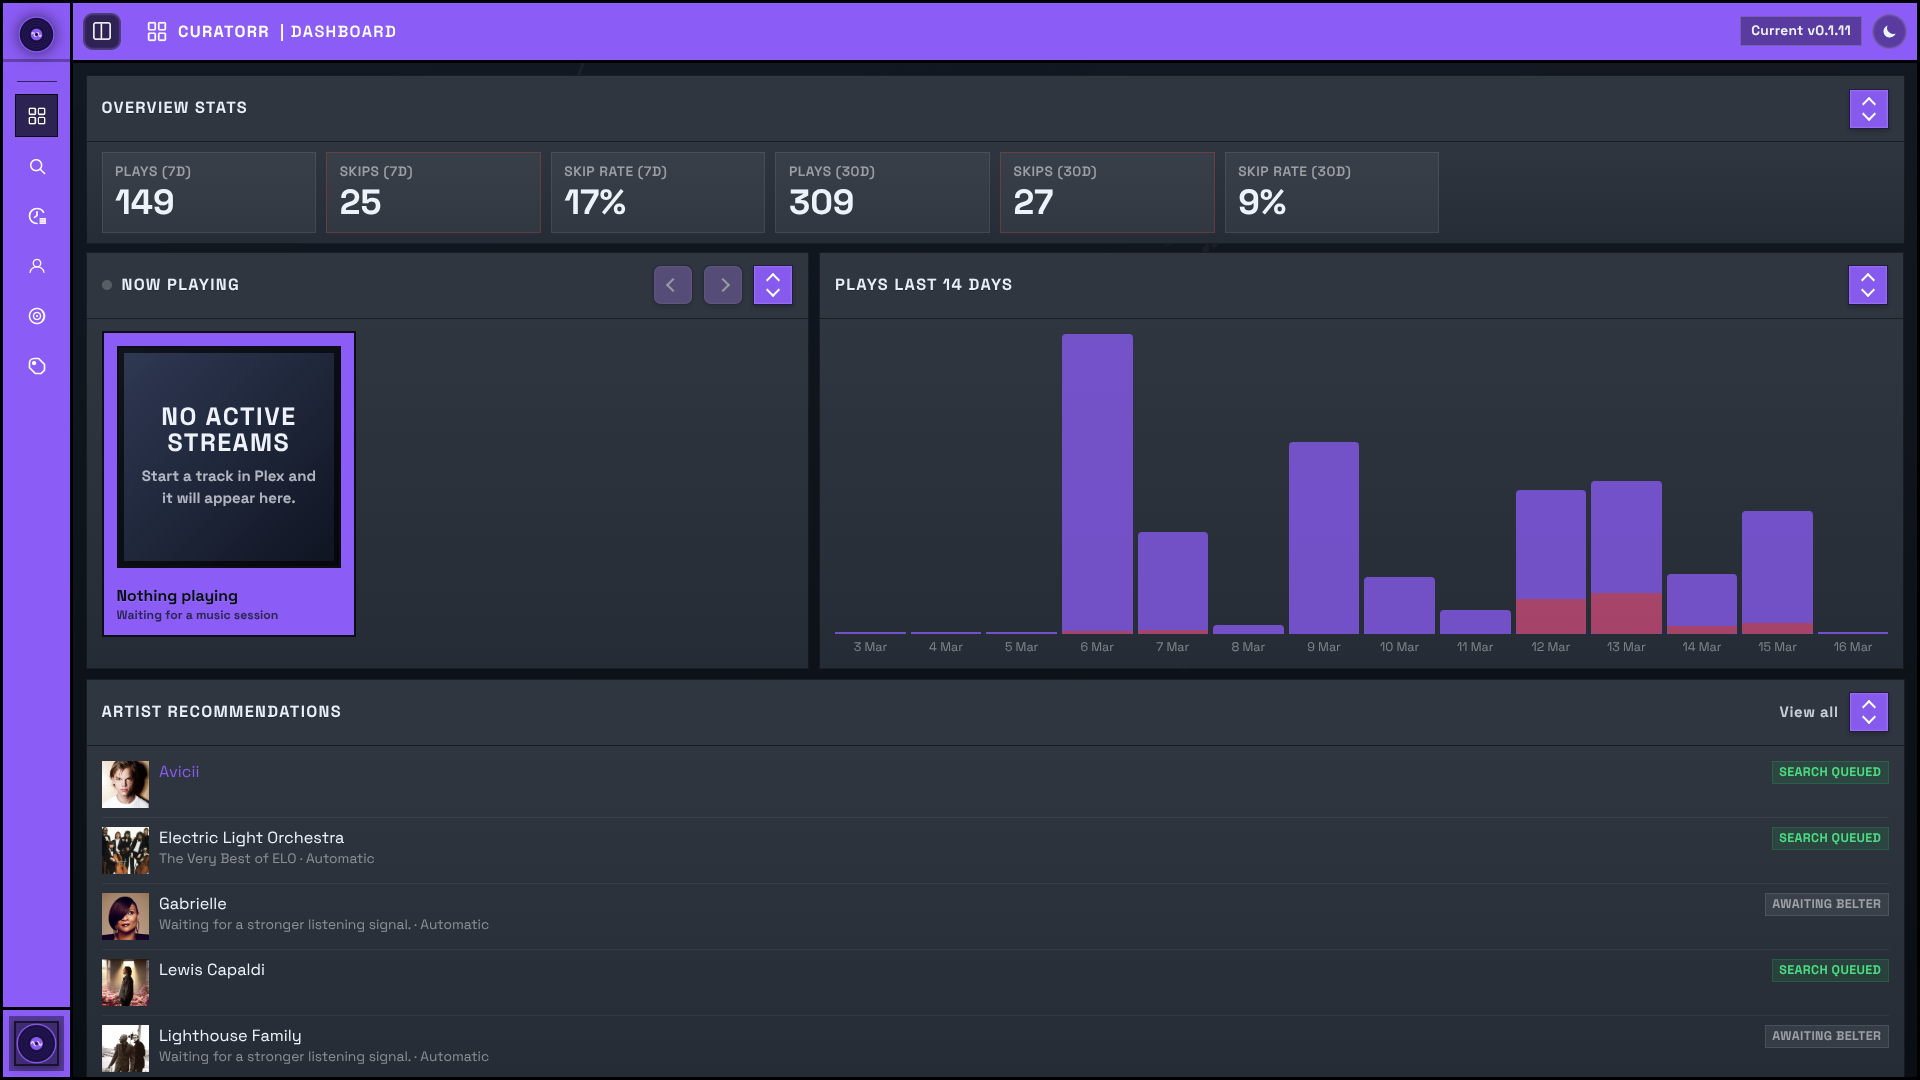
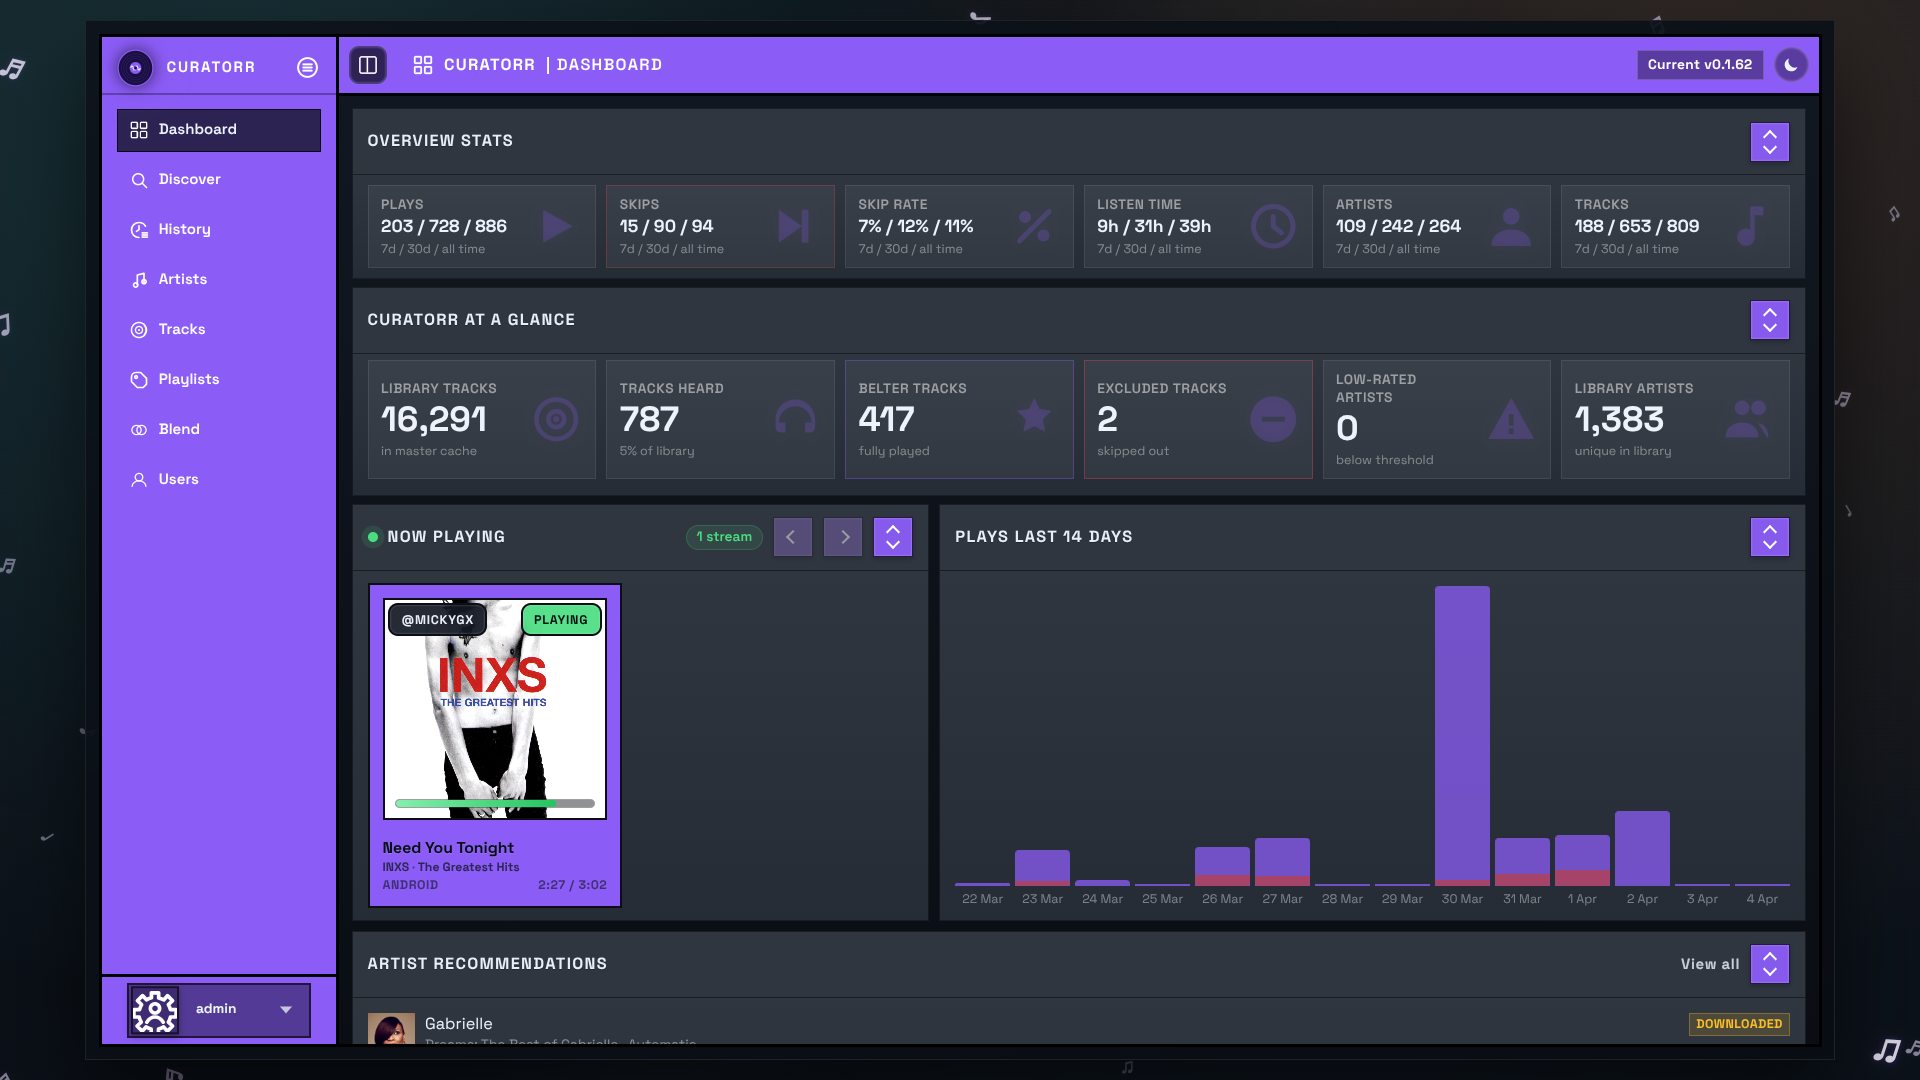
Refresh README and update preview images

diff --git a/README.md b/README.md
@@ -45,9 +45,7 @@ Current Plex-only features:
 - ListenBrainz playlist suggestion sync
 - Sonic ordering and loudness-aware sequencing
 
-## Analyzer Sidecar
-
-Curatorr can enrich tracks with `BPM`, `musical key`, `Camelot key`, `energy`, and `danceability` through the optional `curatorr-analyzer` sidecar.
+## Quick Start
 
 Minimal Docker Compose example:
 
@@ -64,11 +62,6 @@ services:
       - BASE_URL=http://localhost:7676
       - TRUST_PROXY=true
       - TRUST_PROXY_HOPS=1
-      # Optional: required for Spotify playlist import and refresh.
-      # Add the same callback URL in your Spotify app settings:
-      # http://localhost:7676/user-settings/spotify/callback
-      # - SPOTIFY_CLIENT_ID=your-spotify-client-id
-      # - SPOTIFY_CLIENT_SECRET=your-spotify-client-secret
       - SESSION_SECRET=replace-this-with-a-random-secret
       - WEBHOOK_SECRET=replace-this-with-a-random-secret
     volumes:
@@ -77,44 +70,27 @@ services:
       - ./data/icons/custom:/app/public/icons/custom
     network_mode: bridge
     restart: unless-stopped
-
-  curatorr_analyzer:
-    image: mickygx/curatorr-analyzer:latest
-    container_name: curatorr_analyzer
-    depends_on:
-      - curatorr
-    environment:
-      - PORT=8765
-    volumes:
-      - ./data:/app/data
-      # Mount your music library at the same absolute path Plex reports for track files.
-      # Example:
-      # - /path/to/music:/media/music:ro
-    network_mode: "service:curatorr"
-    restart: unless-stopped
 ```
-Then in `Settings -> General -> Track Analysis Import`:
 
-- set `Analyzer mode` to `Analyzer sidecar`
-- set `Analyzer sidecar URL` to `http://127.0.0.1:8765`
-- set `Feature manifest path` to `/app/data/track-features.json`
-- set `Analyzer results path` to `/app/data/track-features.results.json`
-- run `Track Analysis Pipeline`
+Generate `SESSION_SECRET` and `WEBHOOK_SECRET` with:
 
-Optional Spotify import setup:
+```bash
+openssl rand -hex 32
+```
 
-- Uncomment `SPOTIFY_CLIENT_ID` and `SPOTIFY_CLIENT_SECRET` if you want users to connect Spotify accounts and import Spotify playlists.
-- In the Spotify developer app, add a redirect URI that matches your Curatorr base URL, for example `http://localhost:7676/user-settings/spotify/callback`.
+Start Curatorr with:
 
-How to get the Spotify secrets:
+```bash
+docker compose up -d
+```
 
-1. Go to the [Spotify Developer Dashboard](https://developer.spotify.com/dashboard) and sign in.
-2. Click `Create app`.
-3. Give the app a name and description, then choose `Web API`.
-4. Open the app settings and add a redirect URI that matches your Curatorr base URL, for example `http://localhost:7676/user-settings/spotify/callback`.
-5. Save the app settings.
-6. Copy the app `Client ID` into `SPOTIFY_CLIENT_ID`.
-7. Use `View client secret` to copy the `Client Secret` into `SPOTIFY_CLIENT_SECRET`.
+Then open `http://localhost:7676/wizard` and complete the setup wizard for Plex, Jellyfin, or Emby.
+
+## Optional Features
+
+Curatorr supports an optional analyzer sidecar for `BPM`, `musical key`, `Camelot key`, `energy`, and `danceability` enrichment. For setup and workflow details, see [Track Analysis](docs/wiki/Track-Analysis.md).
+
+Spotify support is optional and user-specific. Users can connect Spotify accounts to browse and import playlists after app-level credentials are configured on the Curatorr container. For setup details, see [Spotify in Integrations](docs/wiki/Integrations.md#spotify).
 
 ## Documentation
 
